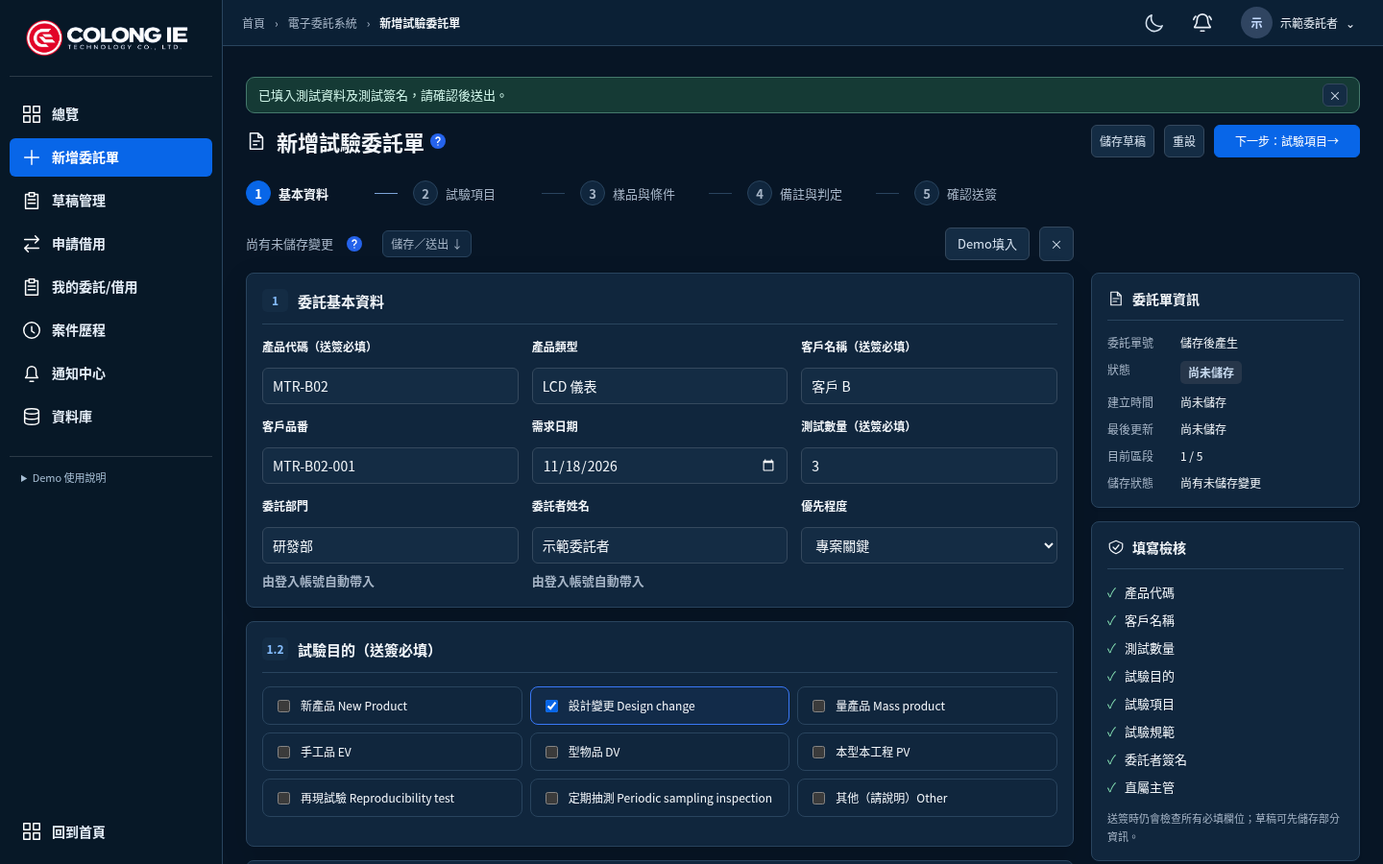
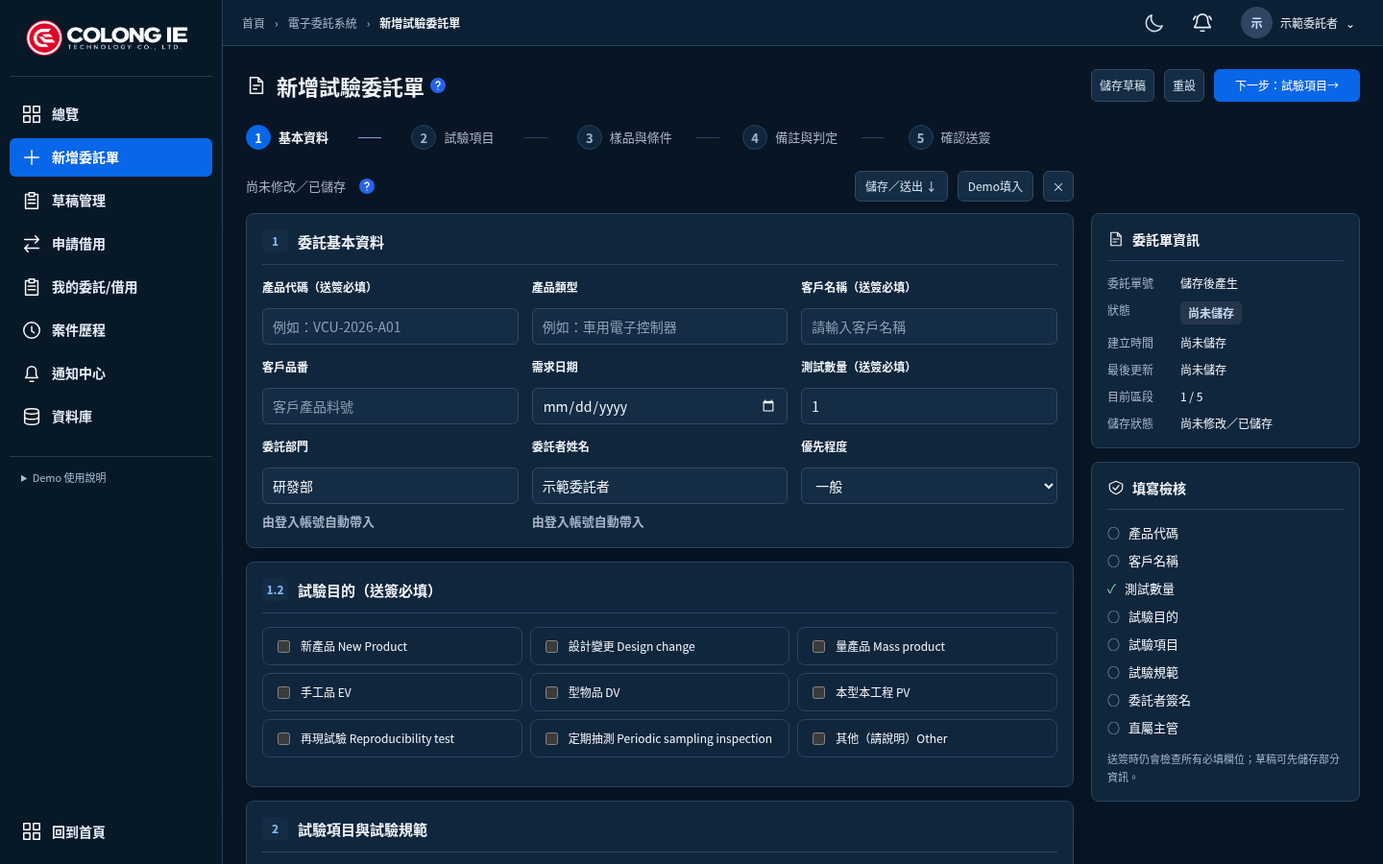
Tighten workspace top spacing and center step connectors with interactive actions

diff --git a/e2e/workspace-page-header.spec.js b/e2e/workspace-page-header.spec.js
@@ -2,9 +2,9 @@ import {test,expect} from '@playwright/test';
 import {INITIAL_ACCOUNTS} from '../src/demoAccounts.mjs';
 async function seed(page,theme){await page.addInitScript(({accounts,theme})=>{localStorage.setItem('dqa-shared-demo-accounts-v1',JSON.stringify(accounts));localStorage.setItem('dqa-global-theme',theme);localStorage.setItem('dqa-completed-flow-provisioned-v1',JSON.stringify({created:false}));sessionStorage.setItem('dqa-lms-account-id','U001');sessionStorage.setItem('dqa-request-account-id','DEMO-REQUESTER');sessionStorage.setItem('dqa-request-role','requester');sessionStorage.setItem('dqa-lab-account-id','U003');},{accounts:INITIAL_ACCOUNTS,theme});}
 for(const theme of ['light','dark'])for(const [system,header] of [['lms','.dashboard-topbar'],['request','.rq-topbar'],['lab','.lab-global-header']])test(`${system} ${theme} breadcrumb belongs to compact header`,async({page})=>{
- await page.setViewportSize({width:1440,height:900});await seed(page,theme);await page.goto(`/${system}/dashboard`);const bar=page.locator(header);expect((await bar.boundingBox()).height).toBe(48);await expect(bar.getByRole('navigation',{name:'麵包屑'})).toBeVisible();await expect(page.getByRole('navigation',{name:'麵包屑'})).toHaveCount(1);await expect(bar.locator('[aria-current=page]')).toBeVisible();expect(await page.evaluate(()=>document.documentElement.scrollWidth<=innerWidth)).toBe(true);await page.screenshot({path:test.info().outputPath(`header-${system}-${theme}.png`),fullPage:true});await bar.getByRole('button',{name:'首頁',exact:true}).click();await expect(page).toHaveURL(/\/$/);
+ await page.setViewportSize({width:1440,height:900});await seed(page,theme);await page.goto(`/${system}/dashboard`);const bar=page.locator(header);expect((await bar.boundingBox()).height).toBe(48);await expect(bar.getByRole('navigation',{name:'麵包屑'})).toBeVisible();await expect(page.getByRole('navigation',{name:'麵包屑'})).toHaveCount(1);await expect(bar.locator('[aria-current=page]')).toBeVisible();await expect(page.locator(({lms:'.dashboard-content',request:'.rq-main',lab:'.lab-main'})[system])).toHaveCSS('padding-top','8px');expect(await page.evaluate(()=>document.documentElement.scrollWidth<=innerWidth)).toBe(true);await page.screenshot({path:test.info().outputPath(`header-${system}-${theme}.png`),fullPage:true});await bar.getByRole('button',{name:'首頁',exact:true}).click();await expect(page).toHaveURL(/\/$/);
 });
 for(const theme of ['light','dark'])for(const width of [1440,390])test(`request editor ${theme} ${width} stepper keeps fields and reset protects changes`,async({page})=>{
  await page.setViewportSize({width,height:900});await seed(page,theme);await page.goto('/request/new');await expect(page.getByRole('heading',{name:'新增試驗委託單',exact:true})).toBeVisible();const steps=page.getByRole('navigation',{name:'表單區段'});await expect(steps.locator('.rq-step-number')).toHaveCount(5);await expect(steps.locator('[aria-current=step]')).toHaveCSS('background-color','rgba(0, 0, 0, 0)');await expect(page.getByRole('button',{name:'儲存草稿',exact:true})).toHaveCount(1);await page.screenshot({path:test.info().outputPath(`editor-${theme}-${width}.png`),fullPage:true});
- const cardBox=await page.locator('.rq-form-body>.rq-entry-card').first().boundingBox(),stepBox=await steps.boundingBox(),auxBox=await page.locator('.rq-editor-aux-actions').boundingBox();expect(stepBox.x).toBeCloseTo(cardBox.x,1);expect(stepBox.x+stepBox.width).toBeCloseTo(cardBox.x+cardBox.width,1);expect(auxBox.x+auxBox.width).toBeCloseTo(cardBox.x+cardBox.width,1);expect(auxBox.y).toBeLessThan(cardBox.y);if(width>720){const boxes=await Promise.all((await page.locator('.rq-editor-top-actions>button').all()).map(button=>button.boundingBox()));expect(boxes[1].x-boxes[0].x-boxes[0].width).toBeCloseTo(boxes[2].x-boxes[1].x-boxes[1].width,1);}const circles=await Promise.all((await steps.locator('.rq-step-number').all()).map(circle=>circle.boundingBox()));const interval=circles[1].x-circles[0].x;for(let i=2;i<circles.length;i++)expect(circles[i].x-circles[i-1].x).toBeCloseTo(interval,1);await expect(page.locator('.rq-editor-hint .rq-section-action')).toHaveCSS('border-top-width','1px');if(width>720)expect((await page.locator('.rq-editor-top-actions').boundingBox()).x).toBeCloseTo((await page.locator('.rq-editor-sidebar').boundingBox()).x,1);const product=page.getByPlaceholder('例如：VCU-2026-A01');await product.fill('KEEP-WHILE-NAVIGATING');await page.getByRole('button',{name:/下一步：/}).click();await expect(product).toHaveValue('KEEP-WHILE-NAVIGATING');await steps.getByRole('link',{name:'5. 確認送簽',exact:true}).click();await expect(page.locator('#request-section-5')).toBeFocused();page.once('dialog',d=>d.dismiss());await page.getByRole('button',{name:'重設',exact:true}).click();await expect(product).toHaveValue('KEEP-WHILE-NAVIGATING');page.once('dialog',d=>d.accept());await page.getByRole('button',{name:'重設',exact:true}).click();await expect(product).toHaveValue('');expect(await page.evaluate(()=>document.documentElement.scrollWidth<=innerWidth)).toBe(true);expect(await page.pageErrors()).toEqual([]);
+ const cardBox=await page.locator('.rq-form-body>.rq-entry-card').first().boundingBox(),stepBox=await steps.boundingBox(),auxBox=await page.locator('.rq-editor-aux-actions').boundingBox();expect(stepBox.x).toBeCloseTo(cardBox.x,1);expect(stepBox.x+stepBox.width).toBeCloseTo(cardBox.x+cardBox.width,1);expect(auxBox.x+auxBox.width).toBeCloseTo(cardBox.x+cardBox.width,1);expect(auxBox.y).toBeLessThan(cardBox.y);if(width>720){const boxes=await Promise.all((await page.locator('.rq-editor-top-actions>button').all()).map(button=>button.boundingBox()));expect(boxes[1].x-boxes[0].x-boxes[0].width).toBeCloseTo(boxes[2].x-boxes[1].x-boxes[1].width,1);}const circles=await Promise.all((await steps.locator('.rq-step-number').all()).map(circle=>circle.boundingBox()));const interval=circles[1].x-circles[0].x;for(let i=2;i<circles.length;i++)expect(circles[i].x-circles[i-1].x).toBeCloseTo(interval,1);await expect(page.locator('.rq-editor-secondary-actions .rq-section-action')).toHaveCSS('border-top-width','1px');if(width>720)expect((await page.locator('.rq-editor-top-actions').boundingBox()).x).toBeCloseTo((await page.locator('.rq-editor-sidebar').boundingBox()).x,1);const labels=await steps.locator('.rq-step-label').all(),lines=await steps.locator('.rq-step-connector i').all();for(let i=0;i<4;i++){const label=await labels[i].boundingBox(),line=await lines[i].boundingBox();expect(line.x+line.width/2).toBeCloseTo((label.x+label.width+circles[i+1].x)/2,1);}const shortcut=page.locator('.rq-editor-secondary-actions .rq-section-action'),demo=page.getByRole('button',{name:'Demo填入',exact:true});const shortcutBox=await shortcut.boundingBox(),demoBox=await demo.boundingBox();expect(shortcutBox.x+shortcutBox.width).toBeLessThan(demoBox.x);expect(shortcutBox.y).toBeCloseTo(demoBox.y,1);expect(shortcutBox.height).toBe(demoBox.height);const background=await shortcut.evaluate(el=>getComputedStyle(el).backgroundColor);await shortcut.hover();await expect(shortcut).not.toHaveCSS('background-color',background);await shortcut.focus();await page.keyboard.press('Enter');await expect(page.locator('#request-editor-actions')).toBeFocused();await steps.getByRole('link',{name:'1. 基本資料',exact:true}).click();const product=page.getByPlaceholder('例如：VCU-2026-A01');await product.fill('KEEP-WHILE-NAVIGATING');await page.getByRole('button',{name:/下一步：/}).click();await expect(product).toHaveValue('KEEP-WHILE-NAVIGATING');await steps.getByRole('link',{name:'5. 確認送簽',exact:true}).click();await expect(page.locator('#request-section-5')).toBeFocused();page.once('dialog',d=>d.dismiss());await page.getByRole('button',{name:'重設',exact:true}).click();await expect(product).toHaveValue('KEEP-WHILE-NAVIGATING');page.once('dialog',d=>d.accept());await page.getByRole('button',{name:'重設',exact:true}).click();await expect(product).toHaveValue('');expect(await page.evaluate(()=>document.documentElement.scrollWidth<=innerWidth)).toBe(true);expect(await page.pageErrors()).toEqual([]);
 });

diff --git a/src/RequestEditorPage.jsx b/src/RequestEditorPage.jsx
@@ -13,5 +13,5 @@ export default function RequestEditorPage({children,dirty,errors,onClose,form,si
  useEffect(()=>{const nodes=[];for(const [key,message]of Object.entries(errors)){const field=root.current.querySelector(`[data-field="${key}"]`);if(!field)continue;const note=document.createElement('small');note.className='rq-field-error';note.id=`rq-error-${key}`;note.textContent=translateText(message);field.setAttribute('aria-describedby',note.id);field.insertAdjacentElement('afterend',note);nodes.push({note,field});}return()=>nodes.forEach(({note,field})=>{note.remove();if(field.getAttribute('aria-describedby')===note.id)field.removeAttribute('aria-describedby');});},[errors,language]);
  const [header,body,footer]=Children.toArray(children);
  const goToSection=index=>{setActive(index);const target=document.getElementById(`request-section-${sectionStarts[index]}`);target?.scrollIntoView({block:'start'});target?.focus({preventScroll:true});};
- return <section className="rq-editor-page" ref={root} aria-label="委託單編輯頁"><div className="rq-editor-topline">{header}<div className="rq-editor-top-actions"><button type="button" className="rq-btn rq-btn-light" onClick={onSaveDraft}>儲存草稿</button><button type="button" className="rq-btn rq-btn-light" onClick={onReset}>重設</button><button type="button" className="rq-btn rq-btn-primary" onClick={()=>active<4?goToSection(active+1):document.getElementById('request-editor-actions')?.scrollIntoView({block:'center'})}>{active<4?<><span>下一步：</span><span>{sections[active+1]}</span></>:'前往送簽'} →</button></div></div><nav className="rq-section-nav" aria-label="表單區段">{sections.map((label,i)=><a key={label} href={`#request-section-${sectionStarts[i]}`} aria-current={active===i?'step':undefined} onClick={e=>{e.preventDefault();setActive(i);document.getElementById(`request-section-${sectionStarts[i]}`)?.scrollIntoView({block:'start'});document.getElementById(`request-section-${sectionStarts[i]}`)?.focus({preventScroll:true});}} aria-label={`${i+1}. ${label}`}><span className="rq-step-number" aria-hidden="true">{i+1}</span><span>{label}</span></a>)}</nav><div className="rq-editor-pretable-row"><div className="rq-editor-hint">{dirty?'尚有未儲存變更':'尚未修改／已儲存'}<HelpTip>標示「必填」的欄位於送簽時檢查；草稿可不完整。日期格式：YYYY-MM-DD；自動帶入欄位為唯讀。</HelpTip><a className="rq-section-action" href="#request-editor-actions" onClick={e=>{e.preventDefault();document.getElementById('request-editor-actions')?.scrollIntoView({block:'center'});document.getElementById('request-editor-actions')?.focus({preventScroll:true});}}>儲存／送出 ↓</a></div>{auxiliaryActions}</div>{Object.keys(errors).length>0&&<div className="rq-error-summary" role="alert"><strong>請檢查以下欄位</strong><ul>{Object.entries(errors).map(([key,message])=><li key={key}><button onClick={()=>root.current.querySelector(`[data-field="${key}"]`)?.focus()}>{message}</button></li>)}</ul></div>}<div className="rq-editor-columns"><div className="rq-editor-content">{body}{footer}</div><RequestEditorSidebar form={form} signature={signature} source={source} dirty={dirty} active={active}/></div></section>;
+ return <section className="rq-editor-page" ref={root} aria-label="委託單編輯頁"><div className="rq-editor-topline">{header}<div className="rq-editor-top-actions"><button type="button" className="rq-btn rq-btn-light" onClick={onSaveDraft}>儲存草稿</button><button type="button" className="rq-btn rq-btn-light" onClick={onReset}>重設</button><button type="button" className="rq-btn rq-btn-primary" onClick={()=>active<4?goToSection(active+1):document.getElementById('request-editor-actions')?.scrollIntoView({block:'center'})}>{active<4?<><span>下一步：</span><span>{sections[active+1]}</span></>:'前往送簽'} →</button></div></div><nav className="rq-section-nav" aria-label="表單區段">{sections.map((label,i)=><a key={label} href={`#request-section-${sectionStarts[i]}`} aria-current={active===i?'step':undefined} onClick={e=>{e.preventDefault();setActive(i);document.getElementById(`request-section-${sectionStarts[i]}`)?.scrollIntoView({block:'start'});document.getElementById(`request-section-${sectionStarts[i]}`)?.focus({preventScroll:true});}} aria-label={`${i+1}. ${label}`}><span className="rq-step-content"><span className="rq-step-number" aria-hidden="true">{i+1}</span><span className="rq-step-label">{label}</span></span><span className="rq-step-connector" aria-hidden="true"><i/></span></a>)}</nav><div className="rq-editor-pretable-row"><div className="rq-editor-hint">{dirty?'尚有未儲存變更':'尚未修改／已儲存'}<HelpTip>標示「必填」的欄位於送簽時檢查；草稿可不完整。日期格式：YYYY-MM-DD；自動帶入欄位為唯讀。</HelpTip></div><div className="rq-editor-secondary-actions"><button type="button" className="rq-btn rq-btn-small rq-section-action" onClick={e=>{e.preventDefault();document.getElementById('request-editor-actions')?.scrollIntoView({block:'center'});document.getElementById('request-editor-actions')?.focus({preventScroll:true});}}>儲存／送出 ↓</button>{auxiliaryActions}</div></div>{Object.keys(errors).length>0&&<div className="rq-error-summary" role="alert"><strong>請檢查以下欄位</strong><ul>{Object.entries(errors).map(([key,message])=><li key={key}><button onClick={()=>root.current.querySelector(`[data-field="${key}"]`)?.focus()}>{message}</button></li>)}</ul></div>}<div className="rq-editor-columns"><div className="rq-editor-content">{body}{footer}</div><RequestEditorSidebar form={form} signature={signature} source={source} dirty={dirty} active={active}/></div></section>;
 }

diff --git a/e2e/request-workspace.spec.js b/e2e/request-workspace.spec.js
@@ -29,7 +29,7 @@ test('supervisor can reject then approve a case and time is displayed in Taipei'
 for(const [width,height]of [[1920,1080],[1366,768],[1280,720],[768,1024],[390,844],[683,384]])test(`workspace responsive ${width}x${height} keyboard, forms and screenshots`,async({page})=>{
  await page.setViewportSize({width,height});await login(page);await page.screenshot({path:test.info().outputPath(`requester-${width}.png`),fullPage:true});
  expect(await page.evaluate(()=>document.documentElement.scrollWidth<=innerWidth)).toBe(true);await nav(page,'我的委託/借用');await page.screenshot({path:test.info().outputPath(`list-${width}.png`),fullPage:true});expect(await page.evaluate(()=>document.documentElement.scrollWidth<=innerWidth)).toBe(true);
- await nav(page,'新增委託單');await page.getByRole('link',{name:'儲存／送出 ↓'}).click();await expect(page.getByRole('button',{name:'送出主管簽核 →'})).toBeVisible();await page.screenshot({path:test.info().outputPath(`form-${width}.png`),fullPage:true});expect(await page.evaluate(()=>document.documentElement.scrollWidth<=innerWidth)).toBe(true);await page.getByRole('button',{name:'送出主管簽核 →'}).click();await expect(page.locator('.rq-error-summary')).toBeVisible();await page.screenshot({path:test.info().outputPath(`form-errors-${width}.png`),fullPage:true});
+ await nav(page,'新增委託單');await page.getByRole('button',{name:'儲存／送出 ↓'}).click();await expect(page.getByRole('button',{name:'送出主管簽核 →'})).toBeVisible();await page.screenshot({path:test.info().outputPath(`form-${width}.png`),fullPage:true});expect(await page.evaluate(()=>document.documentElement.scrollWidth<=innerWidth)).toBe(true);await page.getByRole('button',{name:'送出主管簽核 →'}).click();await expect(page.locator('.rq-error-summary')).toBeVisible();await page.screenshot({path:test.info().outputPath(`form-errors-${width}.png`),fullPage:true});
  await page.goto('/request/dashboard');await page.locator('.theme-toggle').click();await page.screenshot({path:test.info().outputPath(`dark-${width}.png`),fullPage:true});await page.keyboard.press('Tab');expect(await page.evaluate(()=>document.activeElement?.tagName)).not.toBe('BODY');
 });
 test('dirty Escape, browser history, failed save and zero notifications do not lose data',async({page})=>{
@@ -56,7 +56,7 @@ test('Demo tools cancel leaves fixture cases, account and unrelated storage inta
 test('dirty browser Back can continue or discard without destroying forward history; signature pad remains usable',async({page})=>{
  await login(page);await nav(page,'我的委託/借用');await page.getByRole('button',{name:'編輯草稿',exact:true}).first().click();const editUrl=page.url();await page.getByPlaceholder('例如：VCU-2026-A01').fill('BACK-GUARD');await page.goBack();const guard=page.getByRole('dialog',{name:'尚未儲存的變更'});await expect(guard).toBeVisible();await guard.getByRole('button',{name:'繼續編輯'}).click();await expect(page).toHaveURL(editUrl);await expect(page.getByPlaceholder('例如：VCU-2026-A01')).toHaveValue('BACK-GUARD');
  await page.goBack();await guard.getByRole('button',{name:'放棄變更'}).click();await expect(page).toHaveURL(/request\/requests/);await page.goForward();await expect(page).toHaveURL(editUrl);await expect(page.getByPlaceholder('例如：VCU-2026-A01')).not.toHaveValue('BACK-GUARD');
- await page.setViewportSize({width:390,height:844});await page.getByRole('link',{name:'儲存／送出 ↓'}).click();const canvas=page.locator('.rq-editor-page canvas');await canvas.scrollIntoViewIfNeeded();const box=await canvas.boundingBox();await page.mouse.move(box.x+20,box.y+30);await page.mouse.down();await page.mouse.move(box.x+60,box.y+60,{steps:4});await page.mouse.up();await expect(page.getByText('簽名已填寫，可清除後重簽。')).toBeVisible();
+ await page.setViewportSize({width:390,height:844});await page.getByRole('button',{name:'儲存／送出 ↓'}).click();const canvas=page.locator('.rq-editor-page canvas');await canvas.scrollIntoViewIfNeeded();const box=await canvas.boundingBox();await page.mouse.move(box.x+20,box.y+30);await page.mouse.down();await page.mouse.move(box.x+60,box.y+60,{steps:4});await page.mouse.up();await expect(page.getByText('簽名已填寫，可清除後重簽。')).toBeVisible();
 });
 
 test('saved draft signature is editable and never recorded as a submitted signature',async({page})=>{await login(page);await nav(page,'新增委託單');await page.getByPlaceholder('例如：VCU-2026-A01').fill('SIGNATURE-DRAFT');page.once('dialog',d=>d.accept());await page.getByRole('button',{name:'Demo填入',exact:true}).click();await page.getByRole('button',{name:'儲存草稿',exact:true}).click();const row=await page.evaluate(()=>JSON.parse(localStorage.getItem('dqa-request-demo-v2')).find(r=>r.draftSignature));expect(row.requesterSignatureAt).toBe('');expect(row.signatureRecords).toEqual([]);await page.goto(`/request/edit/${row.id}`);await expect(page.getByAltText('上傳的簽名預覽')).toBeVisible();});

diff --git a/e2e/request-zoom.spec.js b/e2e/request-zoom.spec.js
@@ -10,7 +10,7 @@ test('desktop Chrome actual 200 percent tab zoom retains navigation, table scrol
  await context.addInitScript(accounts=>{localStorage.setItem('dqa-shared-demo-accounts-v1',JSON.stringify(accounts));localStorage.setItem('dqa-completed-flow-provisioned-v1',JSON.stringify({created:false}));const requester=accounts.find(a=>a.role==='委託者');const supervisor=accounts.find(a=>a.id===requester.supervisorId);localStorage.setItem('dqa-request-demo-v2',JSON.stringify(Array.from({length:25},(_,i)=>({id:`ZOOM-${i}`,productCode:'DEMO-LONG-PRODUCT',status:i%2?'待主管簽核':'草稿',ownerId:requester.id,requester:requester.name,supervisorId:supervisor.id}))));},INITIAL_ACCOUNTS);
  const page=await context.newPage();const capture=async name=>{const file=test.info().outputPath(name);await mkdir(path.dirname(file),{recursive:true});await page.bringToFront();const client=await context.newCDPSession(page);const image=await client.send('Page.captureScreenshot',{format:'png',fromSurface:false});await writeFile(file,Buffer.from(image.data,'base64'));await client.detach();};await page.goto('chrome://settings/appearance');await page.locator('#zoomLevel').selectOption({label:'200%'});await page.goto('http://127.0.0.1:4173/request/login');
  await expect.poll(()=>page.evaluate(()=>window.devicePixelRatio)).toBe(2);expect(await page.evaluate(()=>innerWidth)).toBe(683);
- await page.getByRole('button',{name:'登入系統',exact:false}).click();await page.goto('http://127.0.0.1:4173/request/requests');expect(await page.locator('.rq-table-wrap').evaluate(el=>el.scrollWidth>el.clientWidth)).toBe(true);expect(await page.evaluate(()=>document.documentElement.scrollWidth<=innerWidth)).toBe(true);await page.locator('.rq-table-wrap').scrollIntoViewIfNeeded();await capture('chrome-actual-200-percent-list.png');await page.getByRole('button',{name:'切換功能選單'}).click();await page.locator('.rq-sidebar').getByRole('button',{name:'新增委託單'}).click();await page.getByRole('link',{name:'儲存／送出 ↓'}).click();await expect(page.getByRole('button',{name:'送出主管簽核 →'})).toBeVisible();const canvas=page.locator('.rq-editor-page canvas');await canvas.scrollIntoViewIfNeeded();expect(await canvas.evaluate(el=>{const r=el.getBoundingClientRect();return document.elementFromPoint(r.x+r.width/2,r.y+r.height/2)===el;})).toBe(true);const box=await canvas.boundingBox();await page.mouse.move(box.x+20,box.y+30);await page.mouse.down();await page.mouse.move(box.x+60,box.y+60,{steps:4});await page.mouse.up();await expect(page.getByText('簽名已填寫，可清除後重簽。')).toBeVisible();await capture('chrome-actual-200-percent-signature.png');
+ await page.getByRole('button',{name:'登入系統',exact:false}).click();await page.goto('http://127.0.0.1:4173/request/requests');expect(await page.locator('.rq-table-wrap').evaluate(el=>el.scrollWidth>el.clientWidth)).toBe(true);expect(await page.evaluate(()=>document.documentElement.scrollWidth<=innerWidth)).toBe(true);await page.locator('.rq-table-wrap').scrollIntoViewIfNeeded();await capture('chrome-actual-200-percent-list.png');await page.getByRole('button',{name:'切換功能選單'}).click();await page.locator('.rq-sidebar').getByRole('button',{name:'新增委託單'}).click();await page.getByRole('button',{name:'儲存／送出 ↓'}).click();await expect(page.getByRole('button',{name:'送出主管簽核 →'})).toBeVisible();const canvas=page.locator('.rq-editor-page canvas');await canvas.scrollIntoViewIfNeeded();expect(await canvas.evaluate(el=>{const r=el.getBoundingClientRect();return document.elementFromPoint(r.x+r.width/2,r.y+r.height/2)===el;})).toBe(true);const box=await canvas.boundingBox();await page.mouse.move(box.x+20,box.y+30);await page.mouse.down();await page.mouse.move(box.x+60,box.y+60,{steps:4});await page.mouse.up();await expect(page.getByText('簽名已填寫，可清除後重簽。')).toBeVisible();await capture('chrome-actual-200-percent-signature.png');
  expect(await page.evaluate(()=>document.documentElement.scrollWidth<=innerWidth)).toBe(true);await page.getByRole('button',{name:'送出主管簽核 →'}).scrollIntoViewIfNeeded();await capture('chrome-actual-200-percent.png');
  }finally{await context.close();await rm(profile,{recursive:true,force:true});}
 });

diff --git a/src/WorkspacePageHeader.css b/src/WorkspacePageHeader.css
@@ -30,7 +30,7 @@
 /* Align section navigation and secondary actions with the form column. */
 #root .rq-enterprise .rq-editor-page{--editor-side-width:280px}
 #root .rq-enterprise .rq-section-nav,#root .rq-enterprise .rq-editor-pretable-row{width:calc(100% - var(--editor-side-width) - 18px)}
-#root .rq-app.rq-enterprise .rq-section-nav{display:grid;grid-template-columns:repeat(5,minmax(156px,1fr));justify-content:normal}
+#root .rq-app.rq-enterprise .rq-section-nav{display:grid;grid-template-columns:repeat(5,minmax(156px,1fr));justify-content:normal;gap:0}
 #root .rq-enterprise .rq-section-nav a:not(.rq-section-action){position:relative}
 #root .rq-enterprise .rq-section-nav a:not(.rq-section-action)::after{position:absolute;right:8px;width:24px;margin:0;flex:0 0 24px}
 #root .rq-enterprise .rq-editor-pretable-row{display:flex;align-items:center;justify-content:space-between;gap:12px;margin-bottom:12px}
@@ -53,3 +53,23 @@
  #root .rq-enterprise .rq-editor-top-actions>.rq-btn{padding:6px 8px;min-width:0;white-space:nowrap}
  #root .rq-enterprise .rq-editor-top-actions>.rq-btn:last-child{flex-wrap:wrap;white-space:normal;column-gap:0}
 }
+
+/* Place short connectors at the midpoint of the available gap. */
+#root :is(.rq-app.rq-enterprise .rq-main,.lab-shell.lab-enterprise .lab-main,.lms-enterprise .dashboard-content){padding-top:8px}
+#root .rq-app.rq-enterprise .rq-section-nav a{gap:0}
+#root .rq-app.rq-enterprise .rq-section-nav a::after{display:none}
+.rq-step-content{display:inline-flex;align-items:center;gap:8px;min-width:0;max-width:calc(100% - 40px)}
+.rq-step-label{white-space:normal;line-height:1.4}
+.rq-step-connector{display:flex;justify-content:center;align-items:center;flex:1;min-width:40px}
+.rq-step-connector i{display:block;width:24px;height:1px;background:var(--enterprise-border);flex:0 0 24px}
+.rq-section-nav a[aria-current=step] .rq-step-connector i{background:#7ca4d8}
+.rq-section-nav a:last-child .rq-step-connector{display:none}.rq-section-nav a:last-child .rq-step-content{max-width:100%}
+.rq-editor-secondary-actions{display:flex;align-items:center;gap:10px;flex-shrink:0}
+#root .rq-app.rq-enterprise .rq-editor-secondary-actions :is(.rq-section-action,.rq-btn-small){display:inline-flex;align-items:center;justify-content:center;min-height:32px;height:32px;padding:6px 10px;border:1px solid var(--enterprise-border);border-radius:6px;background:var(--enterprise-card)!important;color:var(--enterprise-text);font-size:12px;font-weight:500;line-height:1.4;cursor:pointer;transition:background-color .15s,border-color .15s,transform .15s}
+#root .rq-enterprise .rq-editor-secondary-actions button{margin:0!important}
+#root .rq-enterprise .rq-editor-secondary-actions .rq-close{height:32px;min-height:32px;width:32px;padding:0}
+#root .rq-app.rq-enterprise .rq-editor-secondary-actions :is(.rq-section-action,.rq-btn-small):hover{background:color-mix(in srgb,var(--enterprise-card) 88%,#0866e8)!important;border-color:#86abe0;color:var(--enterprise-text);transform:translateY(-1px)}
+#root .rq-app.rq-enterprise .rq-editor-secondary-actions :is(.rq-section-action,.rq-btn-small):active{transform:translateY(0)}
+#root .rq-app.rq-enterprise .rq-editor-secondary-actions :is(.rq-section-action,.rq-btn-small):focus-visible{outline:2px solid #368cff;outline-offset:2px}
+@media(max-width:720px){#root .rq-enterprise .rq-editor-pretable-row{flex-wrap:wrap}.rq-editor-secondary-actions{margin-left:auto}}
+@media(prefers-reduced-motion:reduce){#root .rq-app.rq-enterprise .rq-editor-secondary-actions :is(.rq-section-action,.rq-btn-small){transition:none;transform:none}}

diff --git a/docs/workspace-page-header.md b/docs/workspace-page-header.md
@@ -60,4 +60,13 @@
 
 依最新四點標註，狀態提示改為緊湊列，單行 Demo 訊息實測高度 38px。五個步驟改以等寬欄位定位，圖示間距相等，維持 24px 短連線；「儲存／送出」定位捷徑加上細邊框。桌面上方操作列依資訊欄實際寬度配置，左緣對齊右側資訊欄，保留三個按鈕一致的 10px 間距。
 
-最終桌面／手機、深淺色幾何與互動補測 4／4、表單與頁首回歸 33／33 通過，lint、正式建置及 diff check 通過。截圖已更新為本輪版型；首屏使用 Demo 填入後的狀態提示，方便檢視框格高度。
+最終桌面／手機、深淺色幾何與互動補測 4／4、表單與頁首回歸 33／33 通過，lint、正式建置及 diff check 通過。當輪另以 Demo 訊息量測提示框高度，截圖隨後續版型更新。
+
+
+## 上方留白、連線中點與定位按鈕互動
+
+三個工作區內容區上方留白由 18px 縮至 8px。短連線改為位在每個步驟文字右緣與下一個編號圖示左緣的中點，保留圖示等距。儲存／送出改為真正的定位按鈕，移到 Demo 填入左側，兩者同高、同樣式，支援滑鼠 Hover、按下回饋、鍵盤聚焦及 Enter 定位至原本送簽操作區。
+
+最終新介面檢查：三系統深淺色上方留白 6／6，連線幾何中點與按鈕互動 4／4 通過。表單既有流程回歸 22 項通過；舊測試以連結角色尋找定位按鈕的選擇器已同步更新為按鈕角色。lint、正式建置及 diff check 通過，首屏與完整截圖已更新。
+
+Chrome 實際 200% 縮放、導航與簽名補測 1／1 通過；本輪各組合計 33 個案例均完成驗證。
